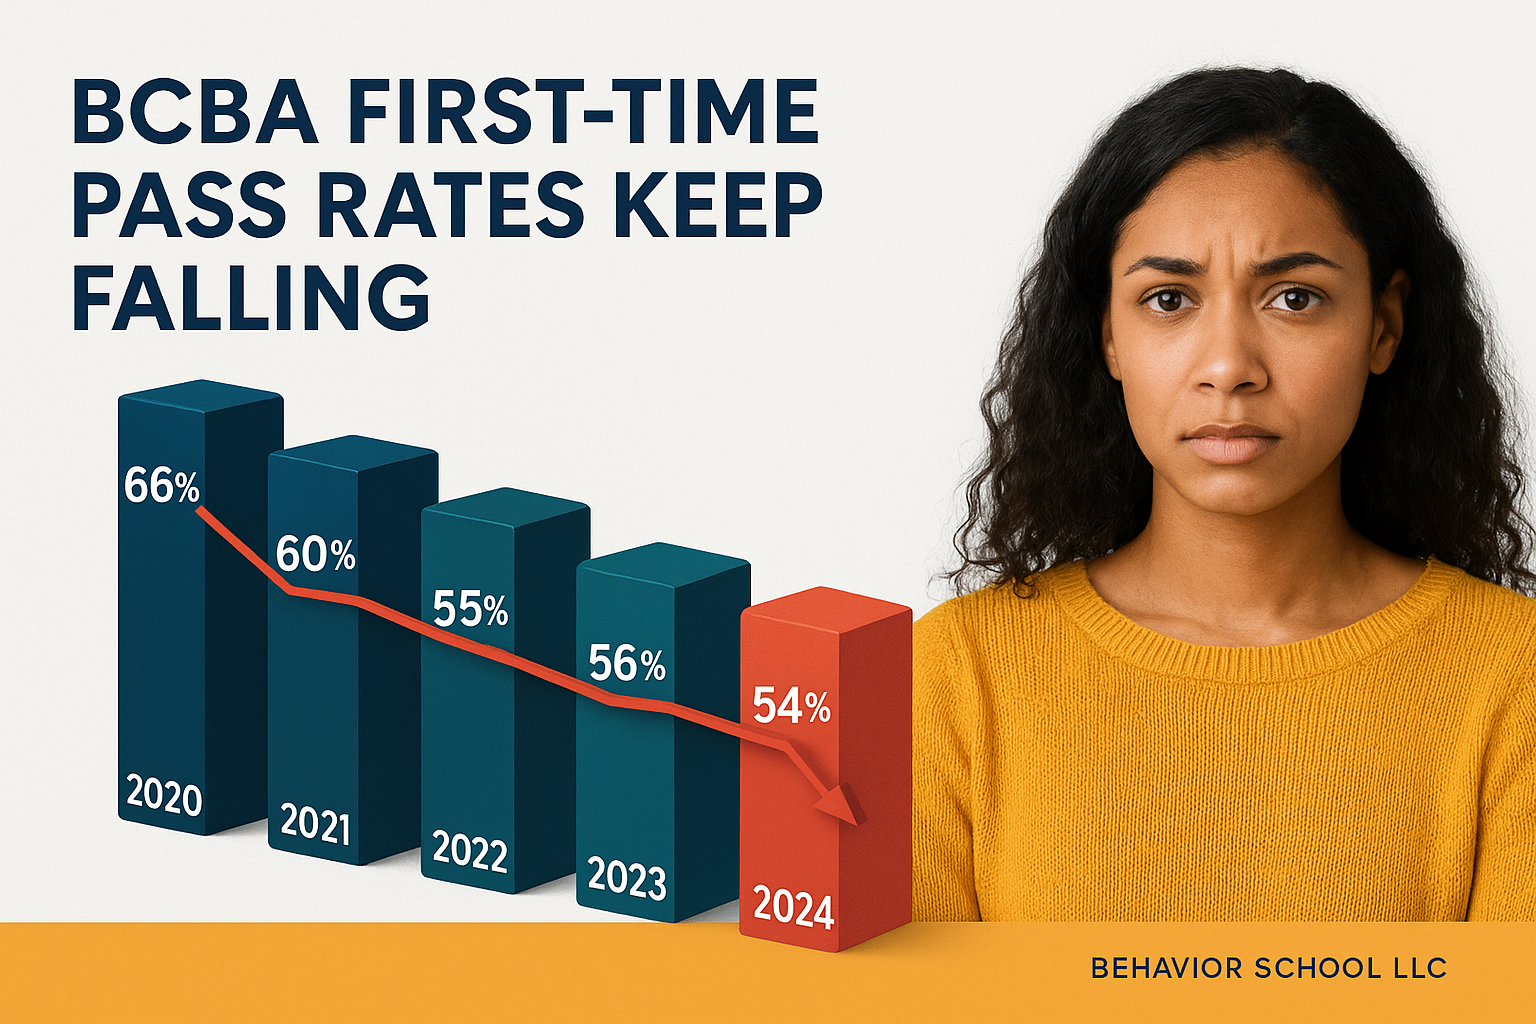
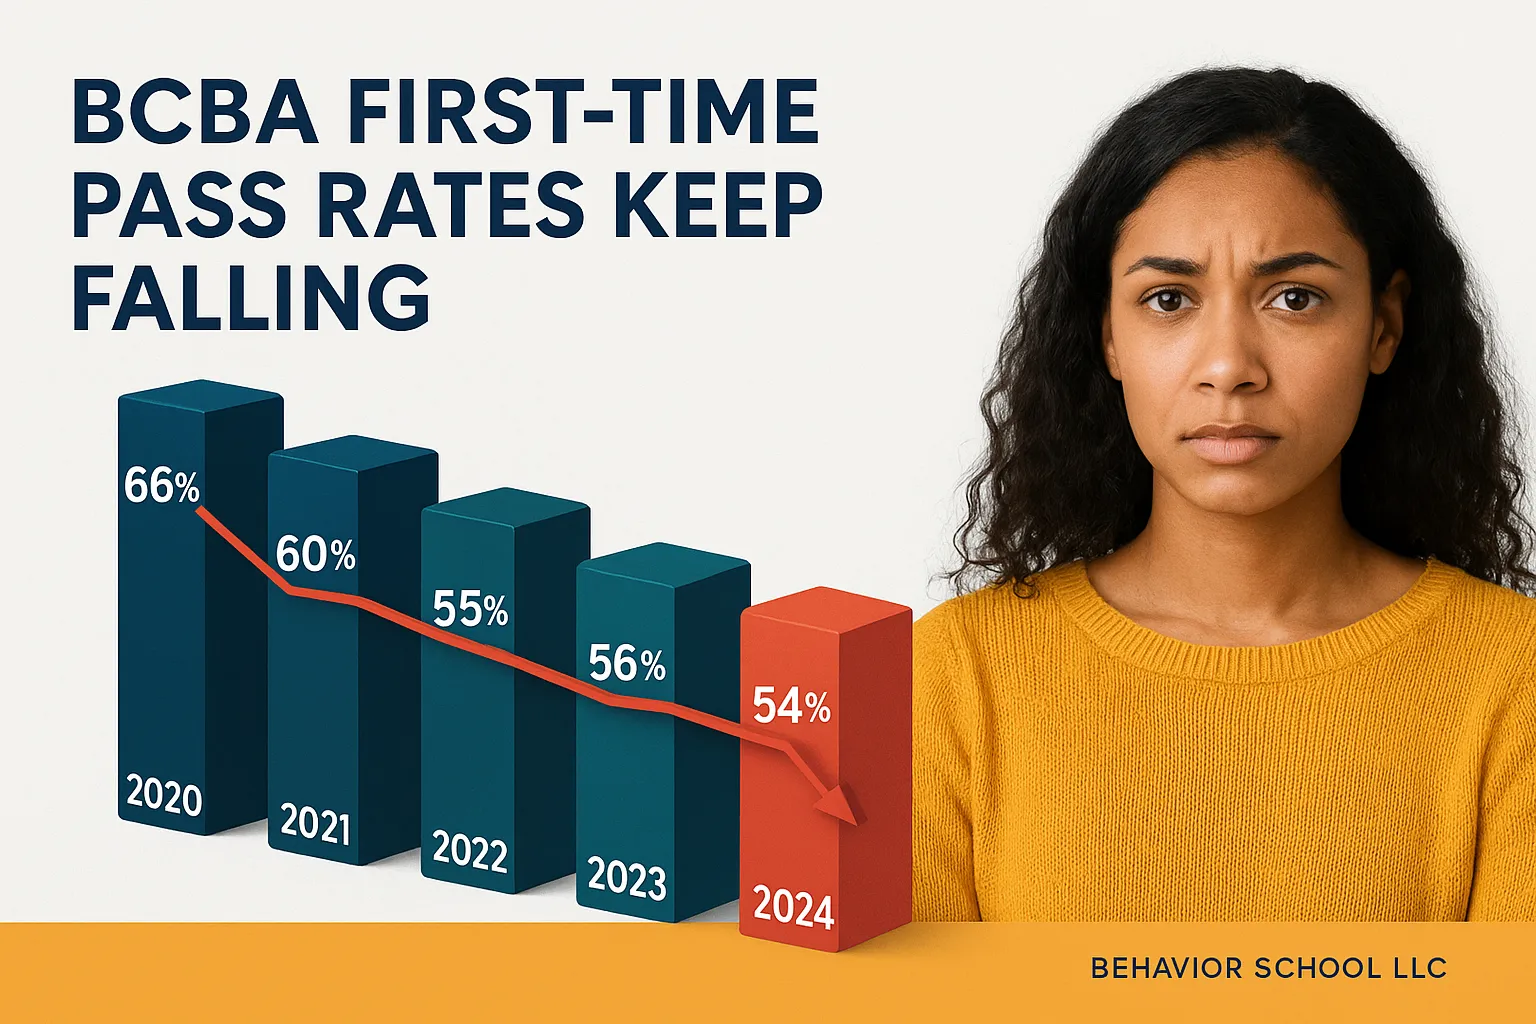
perf: Optimize images - 91% size reduction (7.7MB → 664KB)
Image optimizations:
- Replaced bcbaq-first-time-falling.png with optimized version (2.7MB → 158KB)
- Converted Hero-BST-Home.png to WebP (1.7MB → 89KB, 95% reduction)
- Converted 4 IEP-Behavior-Goal images to WebP (5.5MB → 240KB, 96% reduction)
- Converted BACB_ACE-Logo-1.jpg to WebP (389KB → 70KB, 82% reduction)
- Converted before-after-behaviorstudytools.jpeg to WebP (170KB → 69KB, 59% reduction)
- Converted Behavior Goal Writer.jpeg to WebP (153KB → 58KB, 62% reduction)

Total savings: ~7MB (91% reduction)
Expected load time improvement: 4.4s → 1.5-2s

WebP images created with 85% quality setting.
Original PNG/JPG files retained for fallback compatibility.

diff --git a/APP_STORE_SCREENSHOTS.md b/APP_STORE_SCREENSHOTS.md
@@ -1,0 +1,196 @@
+# App Store Screenshots - Behavior Study Tools
+
+**Date Created:** 2026-01-28
+**Apple Requirements (2024/2025):** Only 2 sizes needed, Apple auto-scales the rest
+
+---
+
+## 📱 Required Screenshot Sizes
+
+### iPhone (REQUIRED)
+- **Dimensions:** 1290 x 2796 pixels (portrait)
+- **Display:** 6.9" (iPhone 17 Pro Max, 16 Pro Max, 16 Plus, etc.)
+- **Format:** PNG or JPEG
+- **Max file size:** 8 MB per image
+- **Quantity:** 1-10 screenshots
+
+Apple will automatically scale these for:
+- 6.5" displays (iPhone 14 Plus, 13 Pro Max, etc.)
+- 6.3" displays (iPhone 17 Pro, 16 Pro, 16, 15 Pro, etc.)
+- 6.1" displays (iPhone 16e, 14, 13, 12, etc.)
+- All smaller iPhones
+
+### iPad (REQUIRED)
+- **Dimensions:** 2064 x 2752 pixels (portrait)
+- **Display:** 13" (iPad Pro M5/M4)
+- **Format:** PNG or JPEG
+- **Max file size:** 8 MB per image
+- **Quantity:** 1-10 screenshots
+
+Apple will automatically scale these for:
+- 12.9" iPad Pro
+- 11" iPad Pro and iPad Air
+- 10.5" iPad
+- 9.7" iPad and iPad mini
+
+---
+
+## 🎨 Recommended Screenshot Sequence
+
+### Screenshot 1: Dashboard/Home Screen
+**What to show:**
+- Main study dashboard
+- Progress tracking graphs (7-day, 30-day performance)
+- Domain breakdown (Sections A-E)
+- Study streak counter
+- Clean, professional UI
+
+**Text overlay (optional):**
+- "Track Your BCBA Exam Progress"
+- "Real-time analytics across all domains"
+
+### Screenshot 2: Practice Question Interface
+**What to show:**
+- Sample BCBA practice question
+- Multiple choice options
+- Task list tag (e.g., "Section B: Measurement")
+- Question counter (e.g., "Question 47 of 185")
+- Timer/progress bar
+
+**Text overlay:**
+- "1,400+ Practice Questions"
+- "Aligned with BACB 6th Edition Task List"
+
+### Screenshot 3: Answer Explanation
+**What to show:**
+- Correct answer highlighted
+- Detailed explanation/rationale
+- Related Task List items
+- "Why other answers are incorrect" section
+
+**Text overlay:**
+- "Learn Why, Not Just What"
+- "Detailed explanations for every question"
+
+### Screenshot 4: Performance Analytics
+**What to show:**
+- Domain-by-domain accuracy breakdown
+- Weak areas highlighted
+- Improvement trends over time
+- Recommended study focus areas
+
+**Text overlay:**
+- "Adaptive Learning System"
+- "Focus on your weak areas automatically"
+
+### Screenshot 5: Free Mock Exam
+**What to show:**
+- Full 185-question mock exam interface
+- Domain distribution pie chart
+- Exam timer (4 hours)
+- Results summary screen
+
+**Text overlay:**
+- "Free Full-Length Mock Exams"
+- "185 questions • Mirrors real BCBA exam"
+
+---
+
+## 🎯 Design Guidelines
+
+### Colors
+Use BehaviorSchool.com brand colors:
+- **Primary:** Emerald green (#10B981, #059669)
+- **Secondary:** Slate/Gray (#1E293B, #475569)
+- **Accent:** Blue (#3B82F6)
+- **Success:** Green (#22C55E)
+
+### Text
+- **Font:** Inter, SF Pro, or system default
+- **Titles:** Bold, 32-40pt
+- **Body:** Regular, 16-20pt
+- **Keep text readable** - avoid tiny fonts
+
+### Status Bar
+- Show time as 9:41 AM (Apple standard)
+- Full battery, full signal
+- Clean, minimal status bar
+
+### Mockup Device Frames (Optional)
+- Can show in iPhone/iPad frames OR
+- Full bleed (no device frame)
+- Apple accepts both
+
+---
+
+## 📋 Checklist Before Submission
+
+- [ ] iPhone screenshots: 1290 x 2796 pixels (portrait)
+- [ ] iPad screenshots: 2064 x 2752 pixels (portrait)
+- [ ] All images under 8 MB each
+- [ ] PNG or JPEG format
+- [ ] No personal/confidential info visible
+- [ ] No Lorem Ipsum placeholder text
+- [ ] Real data or realistic example data (NOT fake stats)
+- [ ] Consistent design across all screenshots
+- [ ] Text is legible on all device sizes
+- [ ] 1-10 screenshots per device type
+
+---
+
+## 🚀 How to Generate
+
+### Option 1: Screenshot from Live Platform
+1. Deploy platform to staging/production
+2. Set browser window to exact dimensions:
+   - iPhone: 430px wide x 932px tall (scale up 3x to 1290x2796)
+   - iPad: 1032px wide x 1376px tall (scale up 2x to 2064x2752)
+3. Use browser dev tools device emulation
+4. Capture screenshots
+5. Export at 3x (iPhone) or 2x (iPad) resolution
+
+### Option 2: Figma/Design Tool
+1. Create artboards at exact dimensions
+2. Import platform screens
+3. Add text overlays, annotations
+4. Export as PNG @1x
+
+### Option 3: Automated (Browser Tool)
+```bash
+# When platform is live, I can generate these automatically
+# using browser automation at exact dimensions
+```
+
+---
+
+## 📁 Where to Save
+
+Save generated screenshots to:
+```
+/home/rob/clawd/app-store-assets/screenshots/
+├── iphone/
+│   ├── 01-dashboard.png
+│   ├── 02-question.png
+│   ├── 03-explanation.png
+│   ├── 04-analytics.png
+│   └── 05-mock-exam.png
+└── ipad/
+    ├── 01-dashboard.png
+    ├── 02-question.png
+    ├── 03-explanation.png
+    ├── 04-analytics.png
+    └── 05-mock-exam.png
+```
+
+---
+
+## ✅ Next Steps
+
+1. **Deploy platform** (or use staging URL)
+2. **Generate screenshots** at exact dimensions
+3. **Review for accuracy** - no fake data
+4. **Upload to App Store Connect**
+5. Submit for review
+
+**Questions?** Check Apple's official guide:
+https://developer.apple.com/help/app-store-connect/reference/screenshot-specifications/
